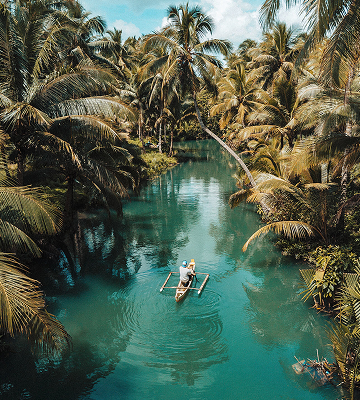
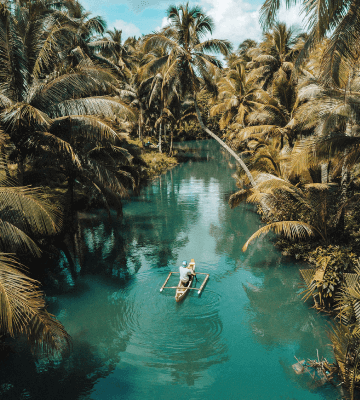
adiciona media query

diff --git a/css/hero.css b/css/hero.css
@@ -1,6 +1,23 @@
-.hero-img{
-    height: 400px;
+.hero-img {
     width: 100%;
+    aspect-ratio: 360 / 400;
     background-image: url('../img/hero-mobile.png');
     background-size: cover;
+    background-position: center;
+    background-repeat: no-repeat;
+}
+
+@media screen and (min-width: 768px) {
+    .hero-img {
+        aspect-ratio: 768 / 620;
+        background-image: url('../img/hero-tablet.jpg');
+    }
+}
+
+@media screen and (min-width: 1024px) {
+    .hero-img {
+        aspect-ratio: 1440 / 620;
+        background-image: url('../img/hero-desktop.png');
+        max-height: 620px; /* evita ampliar além do tamanho real da imagem */
+    }
 }
